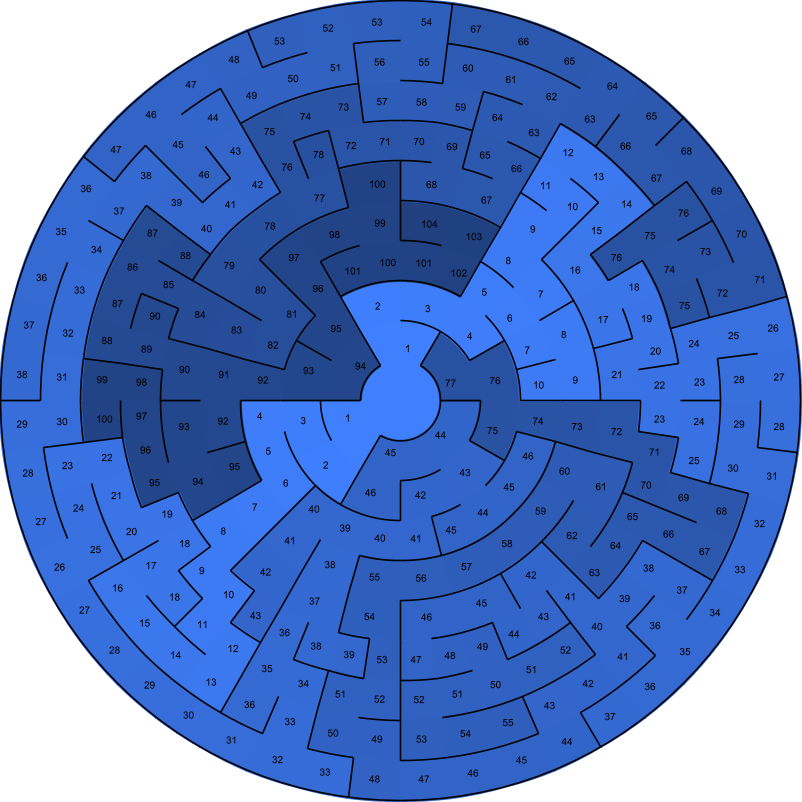
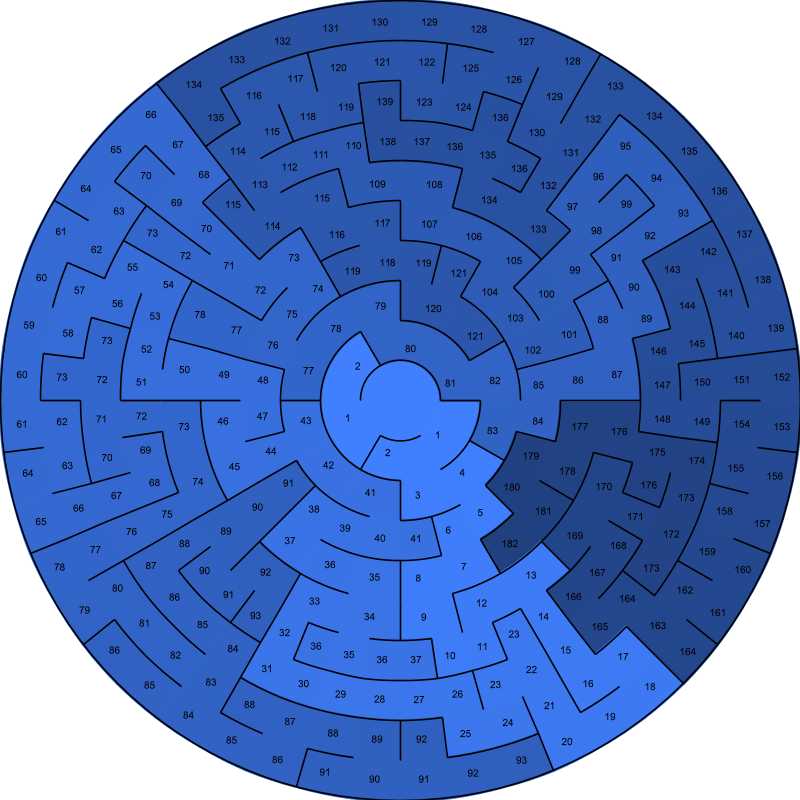
Remove PolarGrid image padding

diff --git a/Library/Grids/PolarGrid.cs b/Library/Grids/PolarGrid.cs
@@ -93,7 +93,7 @@ namespace Library.Grids
             Pen linePen = new(wallColor, lineWidth);
             Font font = new(SystemFonts.Get("Arial"), cellSize / 4, FontStyle.Regular);
 
-            Image<Rgba32> image = new(size + (int)Math.Ceiling(lineWidth), size + (int)Math.Ceiling(lineWidth));
+            Image<Rgba32> image = new(size, size);
             image.Mutate(imageContext =>
             {
                 imageContext.BackgroundColor(backgroundColor);
